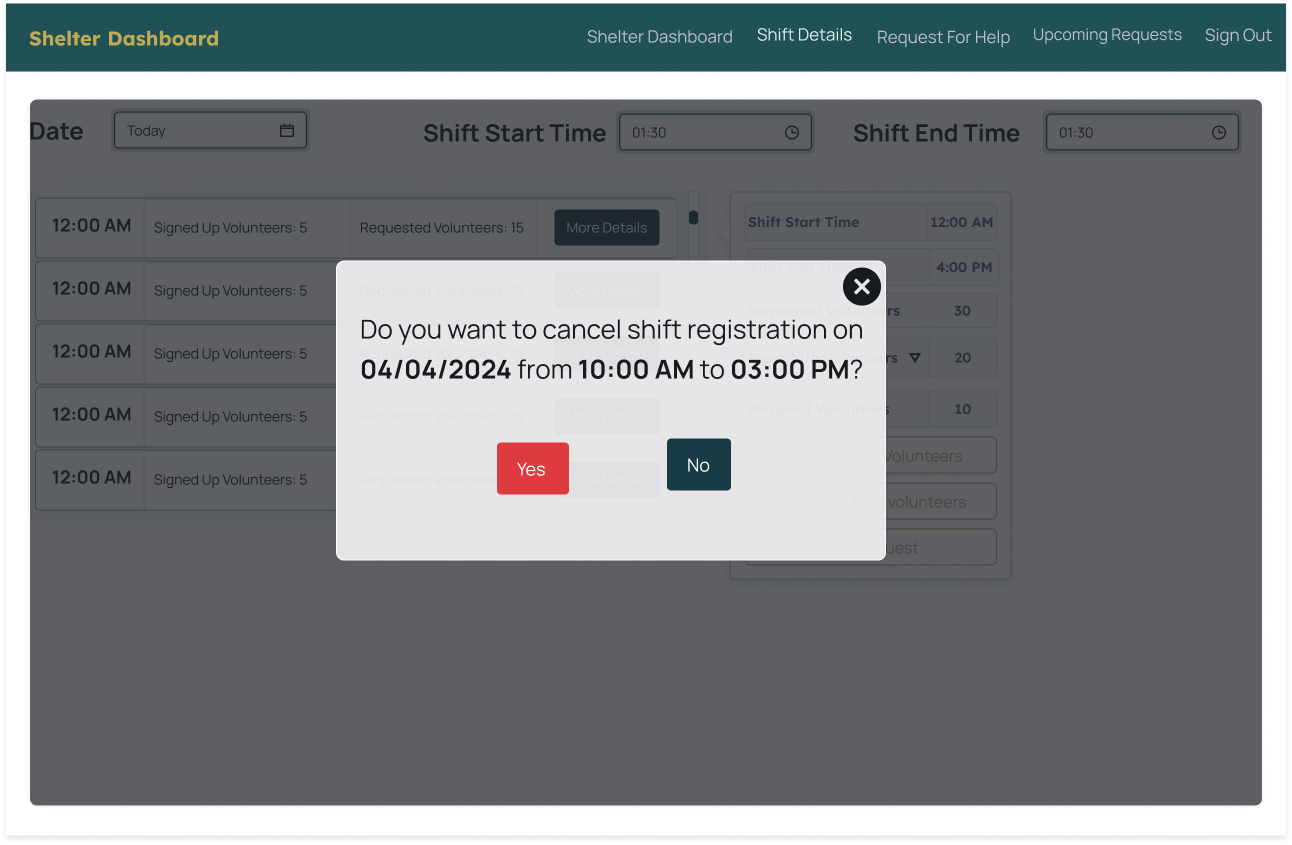
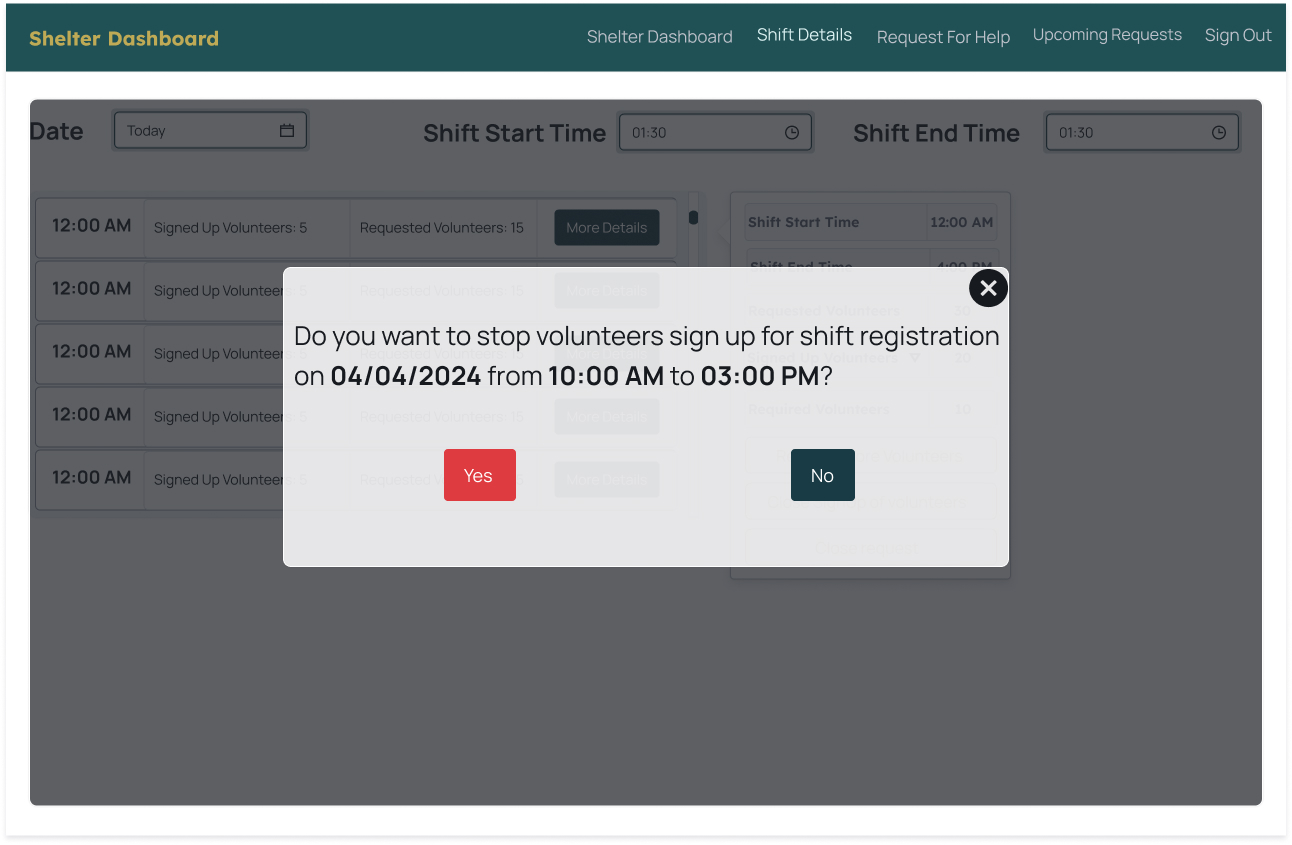
Added readme file to explain the flow of the shelter dahsboard.

Changed region(s): [[0.2167, 0.3077, 0.805, 0.6769], [0.3406, 0.5231, 0.4644, 0.6154]]

diff --git a/wireframes/shelter_dashboard/Desktop_View/README.md b/wireframes/shelter_dashboard/Desktop_View/README.md
@@ -1,0 +1,32 @@
+# Shelter dashboard flow.
+
+![alt text](Shelter_Dashboard.jpg)
+Shelter dashboard has a navigation bar with Shelter dashboard, Shift details, Request for help, Upcoming requests and Sign out options.
+The dashboard shares an brief overview of different shifts scheduled for the day, upcoming requests for help and past volunteers who volunteered at this particular shelter.
+
+![alt text](Shift_Details_Screen_1.jpg)
+Shift details Page/ Screen 1
+Displays all the roster for the selected day from the calendar and time option with all different shifts for the day as per filtered date and time criteria. 
+
+
+![alt text](Shift_Details_Screen_2.jpg)
+Date and Time can be used to filter the day and time.
+
+![alt text](Shift_Details_Screen_3.jpg)
+For each shift requested all the details including shift start time, shift end time, number of volunteers requested, number of volunteers signed up and how many more volunteers are required for the particular shift are displayed along with buttons for requesting more volunteers, closing the sign up for volunteers for the selected shift and closing(delete) the request itself. All these are displayed on clicking the more details button.
+
+![alt text](Shift_Details_Screen_4.jpg)
+On clicking the button beside signed up volunteers, a modal window with the list of volunteers with details as volunteer name, date, shift start time, shift end time, and a button to send them a notification (email) is displayed.
+
+![alt text](Shift_Details_Screen_5.jpg)
+On clicking the close request button a modal window with confirmation message detailing the particulars of the shift like date, shift start time, shift end time is displayed.
+
+![alt text](Request_for_help.jpg)
+The Request for help in the navigation bar will redirect to this page, it is a provision to request help for a particular day and time along with number of volunteers required.
+On adding all the different requests, they can be submitted. 
+
+![alt text](Confirmation_Page_Request_for_help.jpg)
+On submission in the Request_for_help page it'll redirect to the confirmation page.
+
+![alt text](All_upcoming_requests_page.jpg)
+The All upcoming requests page in the navigation bar will redirect to this page, it displays all the upcoming requests made by the shelter.
